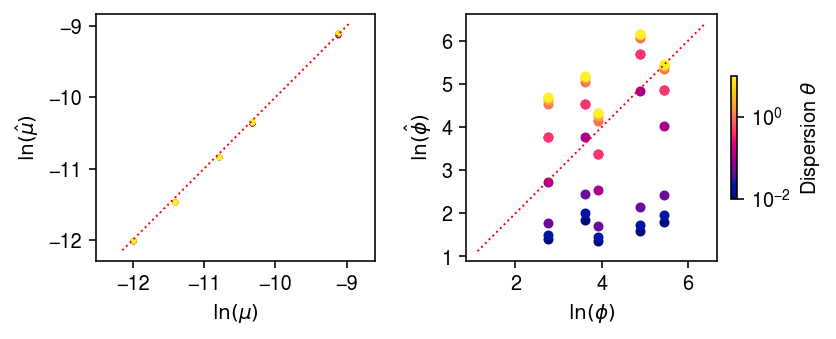
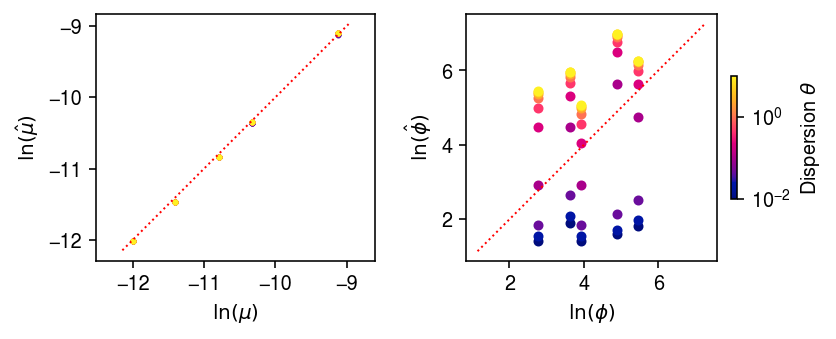
Fit EBNBM to real data

diff --git a/docs/ebnbm.html b/docs/ebnbm.html
@@ -1,7 +1,7 @@
 <!DOCTYPE html>
 <html lang="en">
 <head>
-<!-- 2020-09-02 Wed 17:53 -->
+<!-- 2020-09-03 Thu 00:18 -->
 <meta charset="utf-8">
 <meta name="viewport" content="width=device-width, initial-scale=1">
 <title>Negative binomial measurement model</title>
@@ -264,6 +264,7 @@ for the JavaScript code in this tag.
 <ul>
 <li><a href="#org72a0851">VBEM algorithm for Gamma expression model</a></li>
 <li><a href="#org1a493b0">Simulation</a></li>
+<li><a href="#org9a061c5">Application to control data</a></li>
 </ul>
 </li>
 </ul>
@@ -355,7 +356,7 @@ original NB-Gamma compound model of interest. The log joint
 
 \begin{multline}
   \ln p(x_{ij} \mid \lambda_{ij}, u_{ij}, a_j, b_j, \theta) = x_{ij} \ln (s_i \lambda_{ij} u_{ij}) - s_i \lambda_{ij} u_{ij} - \ln\Gamma(x_{ij} + 1)\\
-  + (a_j - 1) \ln \lambda_{ij} - b_j \lambda_{ij} + a_j \ln b_j - \ln\Gamma(a_j) + (\theta^{-1} - 1) \ln u_{ij} - \theta^{-1} u_{ij} + \theta^{-1}\ln\theta^{-1} - \ln\Gamma(\theta^{-1}),
+  + (a_j - 1) \ln \lambda_{ij} - b_j \lambda_{ij} + a_j \ln b_j - \ln\Gamma(a_j) + (\theta^{-1} - 1) \ln u_{ij} - \theta^{-1} u_{ij} + \theta^{-1}\ln(\theta^{-1}) - \ln\Gamma(\theta^{-1}),
 \end{multline}
 
 <p>
@@ -391,7 +392,7 @@ The evidence lower bound
 
 \begin{multline}
   \ell = \sum_{i, j} \left[ (x_{ij} + a_j - \alpha_{ij}) \E{\ln \lambda_{ij}} - (b_j - \beta_{ij}) \E{\lambda_{ij}} + (x_{ij} + \theta^{-1} - \gamma_{ij}) \E{\ln u_{ij}} - (\theta^{-1} - \delta_{ij}) \E{u_{ij}} - s_i \E{\lambda_{ij}} \E{u_{ij}}\right.\\
-    + \left. a_j \ln b_j + \theta^{-1}\ln\theta^{-1} - \alpha_{ij} \ln \beta_{ij} - \gamma_{ij} \ln \delta_{ij} - \ln\Gamma(a_j) - \ln\Gamma(\theta^{-1}) + \ln\Gamma(\alpha_{ij}) + \ln\Gamma(\gamma_{ij})\right] + \const,
+    + \left. a_j \ln b_j + \theta^{-1}\ln(\theta^{-1}) - \alpha_{ij} \ln \beta_{ij} - \gamma_{ij} \ln \delta_{ij} - \ln\Gamma(a_j) - \ln\Gamma(\theta^{-1}) + \ln\Gamma(\alpha_{ij}) + \ln\Gamma(\gamma_{ij})\right] + \const,
 \end{multline}
 
 <p>
@@ -691,7 +692,7 @@ fig.tight_layout()
 </div>
 
 <p>
-Plot the ELBO as a function of \(\theta\).
+Compute the ELBO as a function of \(\theta\).
 </p>
 
 <div class="org-src-container">
@@ -699,6 +700,7 @@ Plot the ELBO as a function of \(\theta\).
 <span class="org-variable-name">par</span> = np.array([scmodes.ebpm.ebpm_gamma(x[:,j], s.ravel()) <span class="org-keyword">for</span> j <span class="org-keyword">in</span> <span class="org-builtin">range</span>(x.shape[1])])
 <span class="org-variable-name">fits</span> = []
 <span class="org-keyword">for</span> theta <span class="org-keyword">in</span> grid:
+  <span class="org-keyword">print</span>(f<span class="org-string">'fitting theta={theta:.3g}'</span>)
   <span class="org-variable-name">fit</span> = scmodes.ebnbm.ebnbm_gamma(
     x,
     s,
@@ -714,10 +716,6 @@ Plot the ELBO as a function of \(\theta\).
 <span class="org-variable-name">elbo</span> = np.array([f[-1] <span class="org-keyword">for</span> f <span class="org-keyword">in</span> fits])
 </pre>
 </div>
-
-<p>
-0 - 3cc20e97-b0b3-424c-b95c-80b5b334a358
-</p>
 
 <div class="org-src-container">
 <pre class="src src-ipython">plt.clf()
@@ -822,11 +820,68 @@ fig.tight_layout(pad=0.5)
 </div>
 </div>
 </div>
+
+<div id="outline-container-org9a061c5" class="outline-3">
+<h3 id="org9a061c5">Application to control data</h3>
+<div class="outline-text-3" id="text-org9a061c5">
+<p>
+Fit the model to each control data set.
+</p>
+
+<div class="org-src-container">
+<pre class="src src-sh">sbatch --partition=gpu2 --gres=gpu:1 --mem=4G -a 0
+<span class="org-comment-delimiter">#</span><span class="org-comment">!/bin/bash</span>
+<span class="org-builtin">source</span> activate scmodes
+python &lt;&lt;EOF
+<span class="org-sh-heredoc">&lt;&lt;imports&gt;&gt;</span>
+<span class="org-sh-heredoc">import anndata</span>
+<span class="org-sh-heredoc">import pickle</span>
+<span class="org-sh-heredoc">import os</span>
+<span class="org-sh-heredoc">&lt;&lt;data&gt;&gt;</span>
+<span class="org-sh-heredoc">tasks = [d for d in data if d in control]</span>
+<span class="org-sh-heredoc">d = tasks[int(os.environ['SLURM_ARRAY_TASK_ID'])]</span>
+<span class="org-sh-heredoc">x = data[d]()</span>
+<span class="org-sh-heredoc">s = x.X.sum(axis=1).A</span>
+<span class="org-sh-heredoc">grid = np.logspace(-2, 1, 10)</span>
+<span class="org-sh-heredoc">par = np.array([scmodes.ebpm.ebpm_gamma(x.X[:,j].A.ravel(), s.ravel()) for j in range(x.shape[1])])</span>
+<span class="org-sh-heredoc">fits = dict()</span>
+<span class="org-sh-heredoc">for theta in grid:</span>
+<span class="org-sh-heredoc">  print(f'fitting theta={theta:.3g}')</span>
+<span class="org-sh-heredoc">  fits[theta] = scmodes.ebnbm.ebnbm_gamma(</span>
+<span class="org-sh-heredoc">    x.X.A,</span>
+<span class="org-sh-heredoc">    s,</span>
+<span class="org-sh-heredoc">    init=np.hstack([np.exp(par[:,1]), np.exp(par[:,1] - par[:,0]), theta]),</span>
+<span class="org-sh-heredoc">    tol=1e-4,</span>
+<span class="org-sh-heredoc">    max_iters=100_000,</span>
+<span class="org-sh-heredoc">    extrapolate=True,</span>
+<span class="org-sh-heredoc">    fix_g=False,</span>
+<span class="org-sh-heredoc">    fix_theta=True)</span>
+<span class="org-sh-heredoc">  # Warm start</span>
+<span class="org-sh-heredoc">  par = np.vstack(fits[theta][:2]).T</span>
+<span class="org-sh-heredoc">with open(f'/scratch/midway2/aksarkar/modes/ebnbm-{d}.pkl', 'wb') as f:</span>
+<span class="org-sh-heredoc">  pickle.dump(fit, f)</span>
+<span class="org-sh-heredoc">EOF</span>
+</pre>
+</div>
+
+<p>
+Read the fitted models.
+</p>
+
+<div class="org-src-container">
+<pre class="src src-ipython"><span class="org-keyword">import</span> pickle
+<span class="org-variable-name">d</span> = <span class="org-string">'dropseq'</span>
+<span class="org-keyword">with</span> <span class="org-builtin">open</span>(f<span class="org-string">'/scratch/midway2/aksarkar/modes/ebnbm-{d}.pkl'</span>, <span class="org-string">'rb'</span>) <span class="org-keyword">as</span> f:
+  <span class="org-variable-name">fits</span> = pickle.load(f)
+</pre>
+</div>
+</div>
+</div>
 </div>
 </div>
 <div id="postamble" class="status">
 <p class="author">Author: Abhishek Sarkar</p>
-<p class="date">Created: 2020-09-02 Wed 17:53</p>
+<p class="date">Created: 2020-09-03 Thu 00:18</p>
 <p class="validation"><a href="http://validator.w3.org/check?uri=referer">Validate</a></p>
 </div>
 </body>
